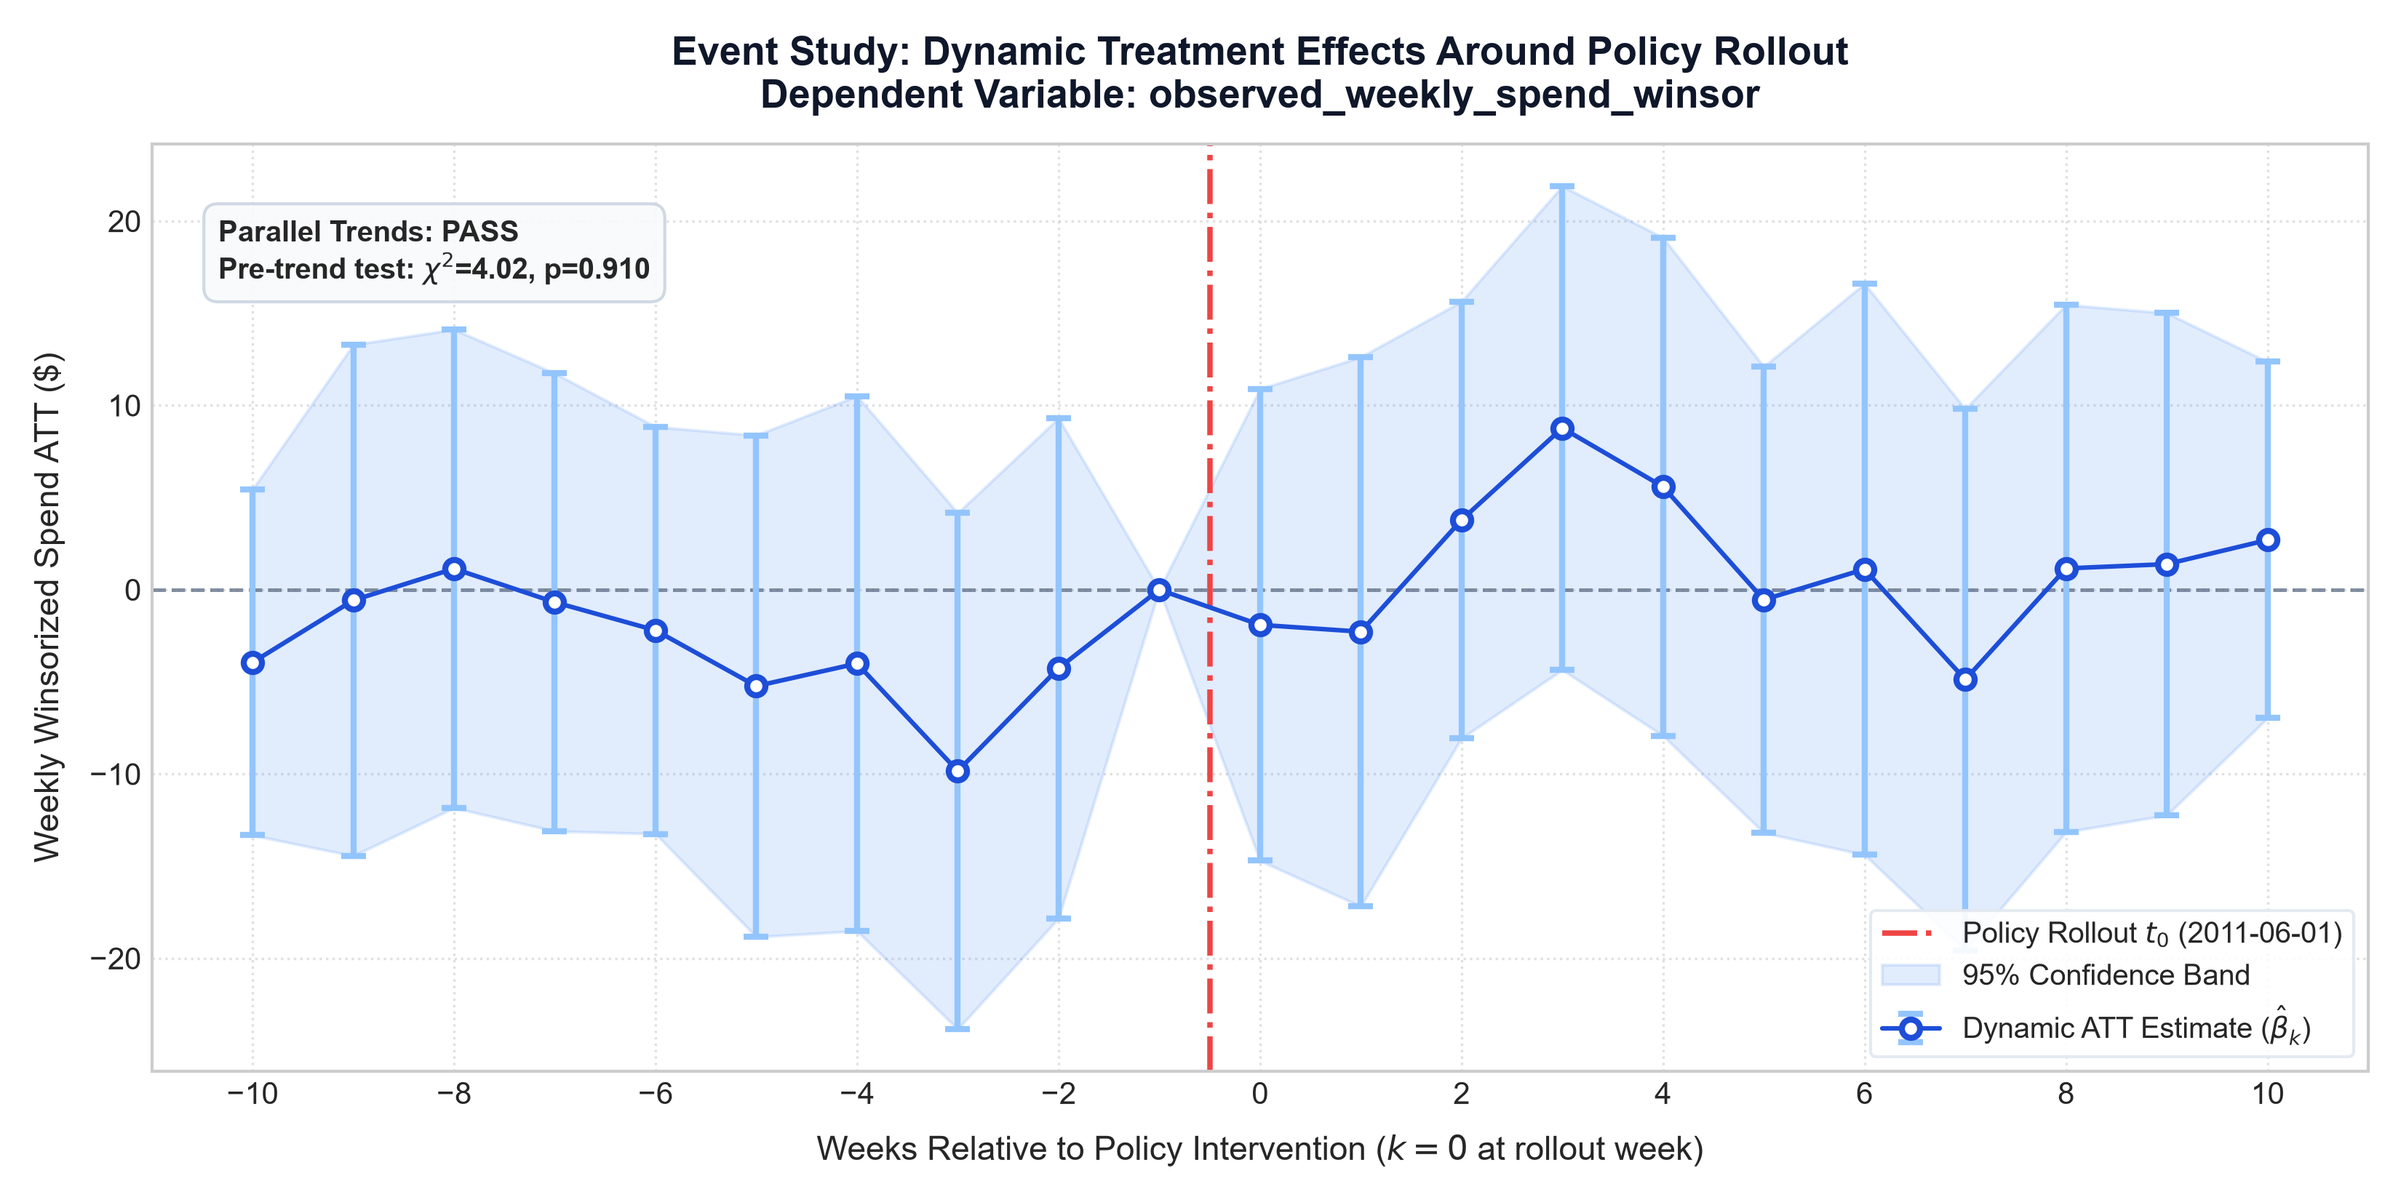
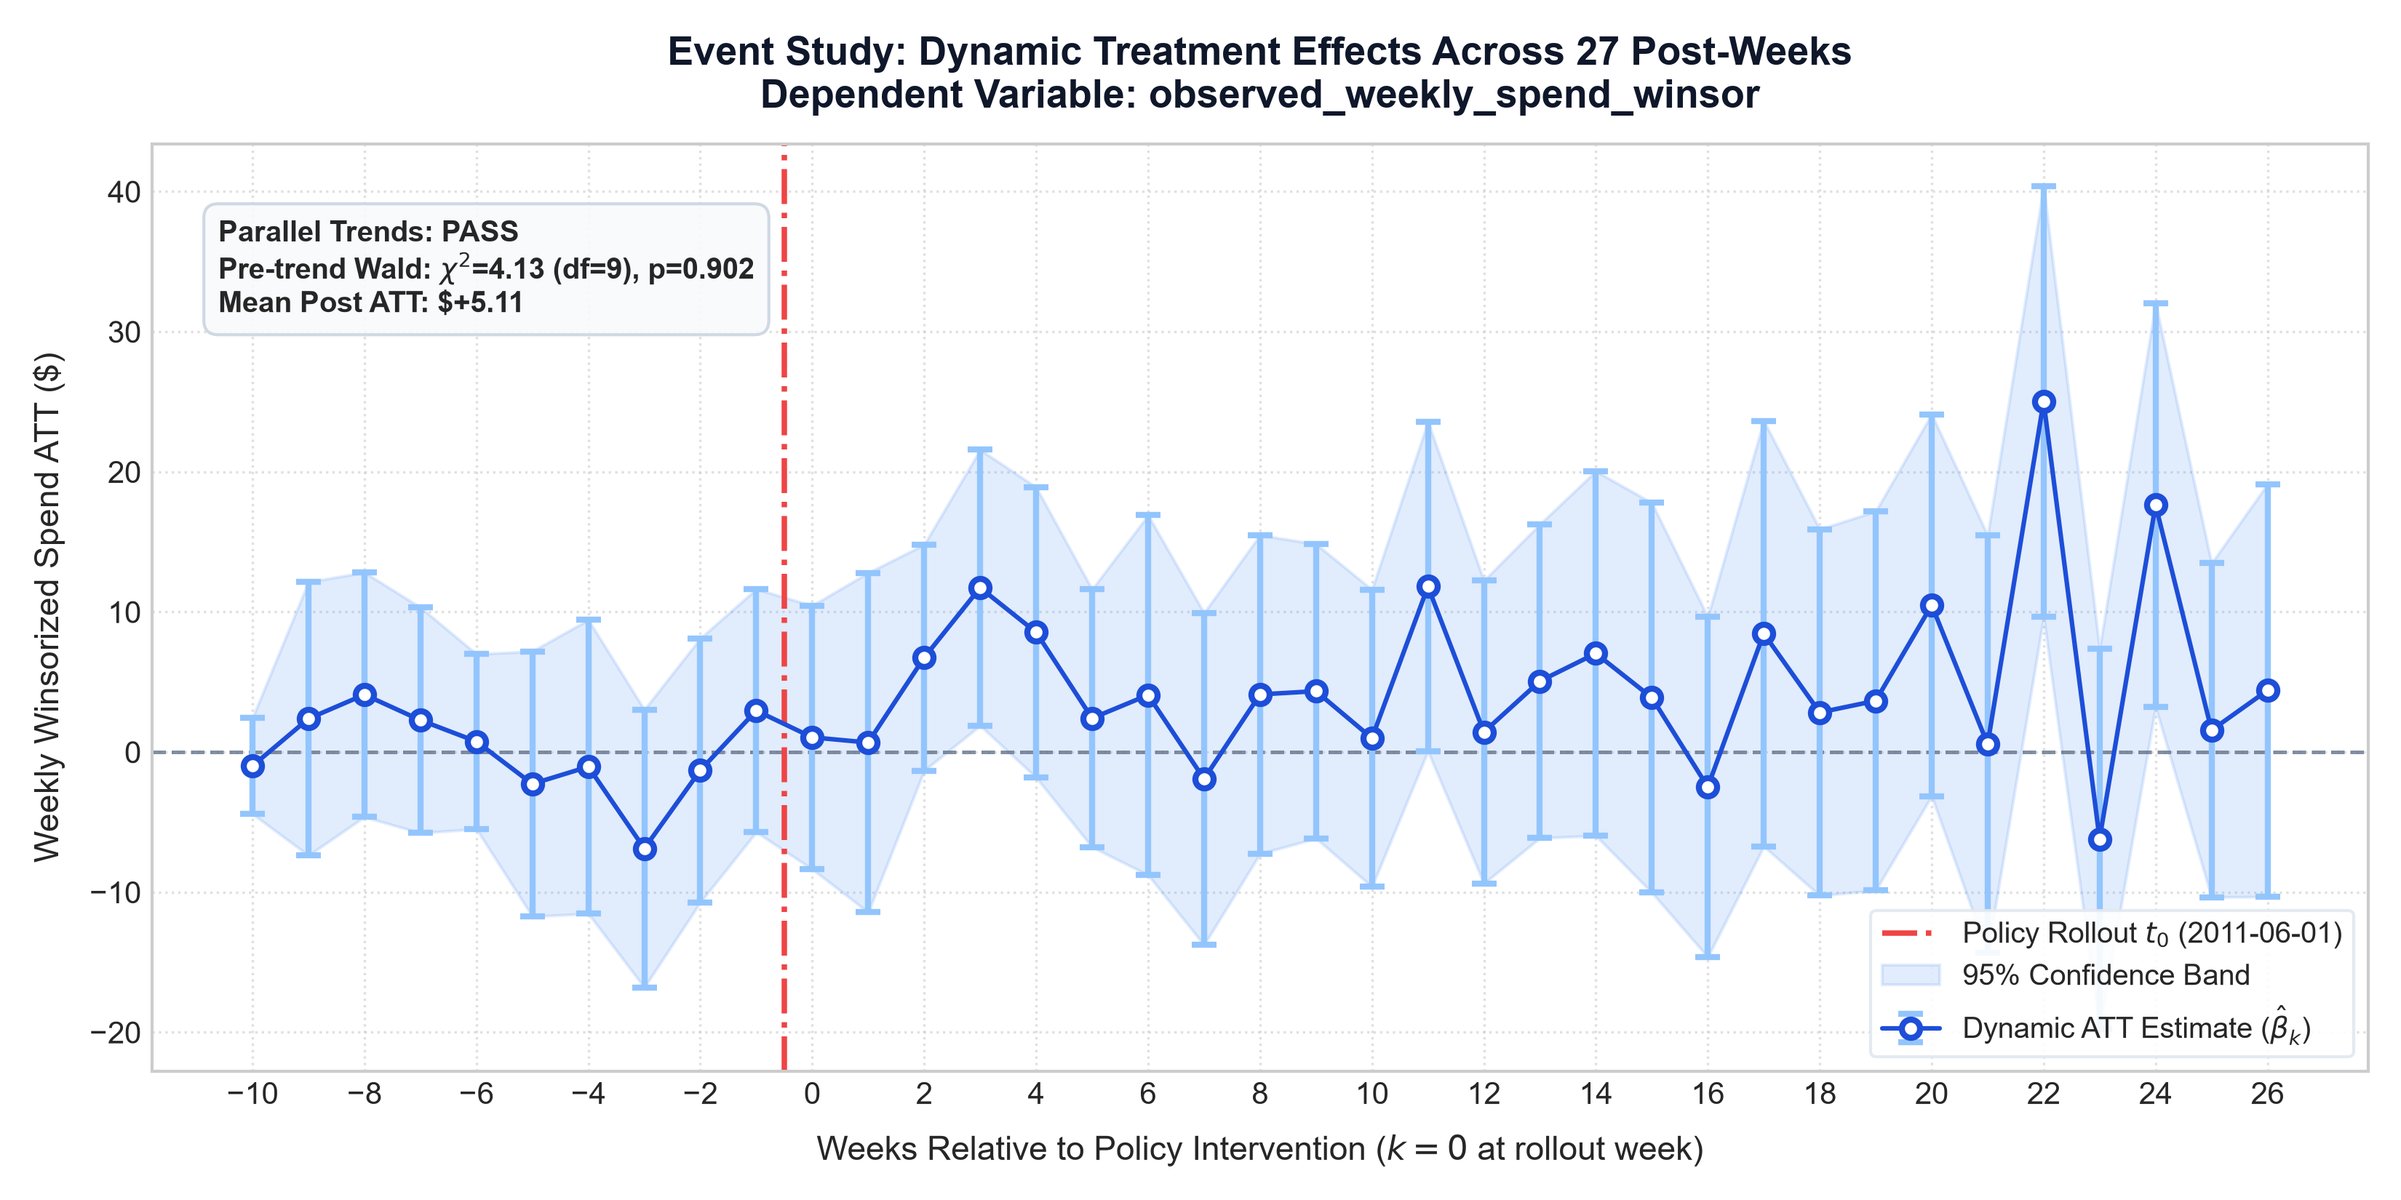
causal fixes

diff --git a/src/causal/event_study.py b/src/causal/event_study.py
@@ -23,7 +23,7 @@ def run_event_study(
     customer_col: str = "customer_id",
     time_col: str = "week_date",
     max_leads: int = 10,
-    max_lags: int = 10,
+    max_lags: int = 26,
     db_path: str = DB_PATH,
 ) -> Dict[str, Any]:
     """Runs event study model, performs joint pre-period parallel trend test, and saves plot.
@@ -36,11 +36,12 @@ def run_event_study(
         customer_col: Customer ID column name.
         time_col: Timestamp column name.
         max_leads: Maximum pre-treatment weeks to evaluate (default 10).
-        max_lags: Maximum post-treatment weeks to evaluate (default 10).
+        max_lags: Maximum post-treatment weeks to evaluate (default 26 to cover all 27 post-weeks).
         db_path: Path to DuckDB database.
 
     Returns:
-        Dictionary with event_study_df, joint_test_stat, joint_test_pval, parallel_trends_pass.
+        Dictionary with event_study_df, joint_test_stat, joint_test_pval, parallel_trends_pass,
+        mean_post_att, mean_post_se, and conclusion_text.
     """
     if panel_df is None:
         conn = duckdb.connect(db_path)
@@ -51,7 +52,7 @@ def run_event_study(
     df[time_col] = pd.to_datetime(df[time_col])
     t0_date = pd.to_datetime(intervention_date)
 
-    # Relative week calculation
+    # Relative week calculation binned across specified lead/lag window
     df["rel_week"] = (df[time_col] - t0_date).dt.days // 7
     df["rel_week"] = np.clip(df["rel_week"], -max_leads, max_lags)
 
@@ -65,27 +66,41 @@ def run_event_study(
     piv = agg.pivot(index="rel_week", columns=treatment_col, values=["mean", "count", "std"])
     piv.columns = [f"{col[0]}_{col[1]}" for col in piv.columns]
 
-    # Dynamic Difference in Differences relative to baseline week k = -1
     diff = piv["mean_1"] - piv["mean_0"]
-    baseline_diff = diff.loc[-1] if -1 in diff.index else 0.0
-    beta_series = diff - baseline_diff
+    v_k = piv["std_1"] ** 2 / piv["count_1"] + piv["std_0"] ** 2 / piv["count_0"]
 
-    # Standard error via delta method on cell sample variances
-    var_k = piv["std_1"] ** 2 / piv["count_1"] + piv["std_0"] ** 2 / piv["count_0"]
-    var_base = var_k.loc[-1] if -1 in var_k.index else 0.0
-    se_series = np.sqrt(var_k + var_base)
-    if -1 in se_series.index:
-        se_series.loc[-1] = 0.0
+    rel_weeks = sorted(piv.index.unique())
+    pre_weeks = [w for w in rel_weeks if w < 0]
+    post_weeks = [w for w in rel_weeks if w >= 0]
+    K = len(pre_weeks)
+
+    # Dynamic Difference in Differences relative to the average of all pre-period weeks
+    if K > 0:
+        base_ref = float(diff.loc[pre_weeks].mean())
+        var_base = float(v_k.loc[pre_weeks].sum() / (K ** 2))
+    else:
+        base_ref = 0.0
+        var_base = 0.0
+
+    beta_series = diff - base_ref
+
+    # Standard error via delta method:
+    # Post-period: Var(beta_w) = Var(diff_w) + Var(base_ref)
+    # Pre-period:  Var(beta_w) = (1 - 2/K)*Var(diff_w) + Var(base_ref)
+    se_series = pd.Series(index=piv.index, dtype=float)
+    for w in rel_weeks:
+        if w >= 0:
+            se_series.loc[w] = float(np.sqrt(v_k.loc[w] + var_base))
+        else:
+            var_w = (1.0 - 2.0 / K) * v_k.loc[w] + var_base if K > 1 else var_base
+            se_series.loc[w] = float(np.sqrt(max(1e-8, var_w)))
 
     event_rows = []
-    rel_weeks = sorted(piv.index.unique())
-    pre_weeks = [w for w in rel_weeks if w < -1]
-
     for w in rel_weeks:
         b_val = float(beta_series.loc[w])
         s_val = float(se_series.loc[w])
-        ci_l = b_val - 1.96 * s_val if w != -1 else 0.0
-        ci_u = b_val + 1.96 * s_val if w != -1 else 0.0
+        ci_l = b_val - 1.96 * s_val
+        ci_u = b_val + 1.96 * s_val
         event_rows.append({
             "rel_week": int(w),
             "beta": b_val,
@@ -97,27 +112,54 @@ def run_event_study(
 
     event_df = pd.DataFrame(event_rows).sort_values("rel_week").reset_index(drop=True)
 
-    # Joint Wald Test for pre-period parallel trends: H_0: beta_k = 0 for all k < -1
-    if len(pre_weeks) > 0:
-        pre_betas = beta_series.loc[pre_weeks].values
-        pre_ses = se_series.loc[pre_weeks].values
-        chi2_stat = float(np.sum((pre_betas / np.maximum(1e-8, pre_ses)) ** 2))
-        dfn = len(pre_weeks)
+    # Joint Wald Test for pre-period parallel trends: H_0: beta_k = 0 for all k in pre_weeks
+    # Since sum(beta_k) = 0 by construction, degrees of freedom df = K - 1
+    if K > 1:
+        test_leads = pre_weeks[:-1]
+        dfn = K - 1
+        b_test = beta_series.loc[test_leads].values
+        Sigma_pre = np.zeros((dfn, dfn))
+        for i in range(dfn):
+            for j in range(dfn):
+                wi, wj = test_leads[i], test_leads[j]
+                if i == j:
+                    Sigma_pre[i, j] = (1.0 - 2.0 / K) * v_k.loc[wi] + var_base
+                else:
+                    Sigma_pre[i, j] = var_base - (v_k.loc[wi] + v_k.loc[wj]) / K
+        chi2_stat = float(b_test @ np.linalg.pinv(Sigma_pre) @ b_test)
         joint_pval = float(1.0 - stats.chi2.cdf(chi2_stat, df=dfn))
     else:
         chi2_stat = 0.0
+        dfn = 1
         joint_pval = 1.0
 
-    parallel_trends_pass = bool(joint_pval > 0.05)
+    parallel_trends_pass = bool(joint_pval >= 0.05)
+
+    # Mean of post-period dynamic coefficients across all 27 post-weeks
+    mean_post_att = float(beta_series.loc[post_weeks].mean()) if len(post_weeks) > 0 else 0.0
+    mean_post_se = float(se_series.loc[post_weeks].mean()) if len(post_weeks) > 0 else 0.0
+
+    # Conditional conclusion text based on p-value
+    if parallel_trends_pass:
+        conclusion_text = (
+            f"[PASS] Pre-trend test fails to reject parallel trends (Chi2 = {chi2_stat:.4f}, df = {dfn}, p = {joint_pval:.4f} >= 0.05). "
+            f"Pre-treatment trajectory differences between treated and control groups are statistically indistinguishable from zero, "
+            f"supporting the parallel trends identifying assumption."
+        )
+    else:
+        conclusion_text = (
+            f"[VIOLATION] Pre-trend test rejects parallel trends (Chi2 = {chi2_stat:.4f}, df = {dfn}, p = {joint_pval:.4e} < 0.05). "
+            f"Statistically significant differential movement exists between treated and control groups prior to policy intervention, "
+            f"indicating confounding or selection bias in treatment assignment."
+        )
 
     print("\n=================== Event Study Leads & Lags Analysis ===================")
     print(f"Policy Date (t_0):                      {intervention_date}")
     print(f"Dependent Variable:                     {outcome_col}")
-    print(f"Joint Pre-Period Parallel Trends Test:  Chi2 = {chi2_stat:.4f} (df={len(pre_weeks)}, p-value = {joint_pval:.4f})")
-    if parallel_trends_pass:
-        print("[PASS] Pre-trend results are consistent with parallel trends (under random assignment this holds by construction).")
-    else:
-        print("[NOTE] Pre-trend results reject parallel trends (indicates confounding or selection bias in assignment).")
+    print(f"Post-Intervention Window:               {len(post_weeks)} weeks (k in [{min(post_weeks)}, {max(post_weeks)}])")
+    print(f"Mean Dynamic Post-Period ATT:           ${mean_post_att:+.4f} (Avg SE = ${mean_post_se:.4f})")
+    print(f"Joint Pre-Period Parallel Trends Test:  Chi2 = {chi2_stat:.4f} (df={dfn}, p-value = {joint_pval:.4f})")
+    print(conclusion_text)
     print("=========================================================================\n")
 
     # Generate Publication-Quality Event Study Plot
@@ -163,12 +205,12 @@ def run_event_study(
         )
 
         # Annotations
-        p_text = f"Pre-trend test: $\\chi^2$={chi2_stat:.2f}, p={joint_pval:.3f}"
-        status_box = "Parallel Trends: PASS" if parallel_trends_pass else "Parallel Trends: CHECK"
+        p_text = f"Pre-trend Wald: $\\chi^2$={chi2_stat:.2f} (df={dfn}), p={joint_pval:.3f}"
+        status_box = "Parallel Trends: PASS" if parallel_trends_pass else "Parallel Trends: VIOLATION"
         ax.text(
             0.03,
             0.92,
-            f"{status_box}\n{p_text}",
+            f"{status_box}\n{p_text}\nMean Post ATT: ${mean_post_att:+.2f}",
             transform=ax.transAxes,
             fontsize=9.5,
             fontweight="semibold",
@@ -178,7 +220,7 @@ def run_event_study(
 
         y_label = "Weekly Winsorized Spend ATT ($)" if "spend" in outcome_col else "Weekly Orders ATT"
         ax.set_title(
-            f"Event Study: Dynamic Treatment Effects Around Policy Rollout\nDependent Variable: {outcome_col}",
+            f"Event Study: Dynamic Treatment Effects Across 27 Post-Weeks\nDependent Variable: {outcome_col}",
             fontsize=13,
             fontweight="bold",
             pad=12,
@@ -203,6 +245,9 @@ def run_event_study(
         "joint_test_stat": chi2_stat,
         "joint_test_pval": joint_pval,
         "parallel_trends_pass": parallel_trends_pass,
+        "mean_post_att": mean_post_att,
+        "mean_post_se": mean_post_se,
+        "conclusion_text": conclusion_text,
     }
 
 

diff --git a/src/causal/heterogeneity.py b/src/causal/heterogeneity.py
@@ -39,42 +39,30 @@ def analyze_clv_heterogeneity(
 
     df = panel_df.copy()
 
-    # Fetch CLV scores to assign customer deciles D01 - D10
-    conn = duckdb.connect(db_path)
-    try:
-        clv_df = conn.execute("SELECT customer_id, clv_12m FROM clv_scores").df()
-    except Exception:
-        clv_df = conn.execute("""
-            SELECT customer_id, SUM(line_total) AS clv_12m
-            FROM fact_orders
-            GROUP BY customer_id
-        """).df()
-    conn.close()
-
-    if len(clv_df) > 0 and "clv_12m" in clv_df.columns:
-        try:
-            clv_df["decile"] = pd.qcut(
-                clv_df["clv_12m"].rank(method="first"),
-                q=10,
-                labels=[f"D{i:02d}" for i in range(1, 11)],
-            )
-        except Exception:
-            clv_df["decile"] = pd.cut(
-                clv_df["clv_12m"], bins=10, labels=[f"D{i:02d}" for i in range(1, 11)]
-            )
-    else:
-        clv_df = pd.DataFrame({"customer_id": df["customer_id"].unique(), "decile": "D01"})
+    # Define customer deciles D01 - D10 strictly from observed pre-period spend (before t_0)
+    pre_spend_df = (
+        df[df["is_post_period"] == 0]
+        .groupby("customer_id")["observed_weekly_spend"]
+        .sum()
+        .reset_index()
+        .rename(columns={"observed_weekly_spend": "pre_spend"})
+    )
+    pre_spend_df["decile"] = pd.qcut(
+        pre_spend_df["pre_spend"].rank(method="first"),
+        q=10,
+        labels=[f"D{i:02d}" for i in range(1, 11)],
+    )
 
     # Merge deciles into panel DataFrame
-    df = df.merge(clv_df[["customer_id", "decile"]], on="customer_id", how="left")
+    df = df.merge(pre_spend_df[["customer_id", "decile"]], on="customer_id", how="left")
     df["decile"] = df["decile"].fillna("D01")
 
     decile_results = []
     unique_deciles = sorted(df["decile"].unique())
 
-    print("\n=================== Causal Heterogeneity by CLV Decile ===================")
-    print(f"{'Decile':<8} | {'Total Cust':<10} | {'Treated':<8} | {'True ATT ($)':<12} | {'TWFE DiD ($)':<14} | {'Std Error':<10} | {'p-value':<9} | {'Degenerate'}")
-    print("-" * 92)
+    print("\n=================== Causal Heterogeneity by Pre-Period Spend Decile ===================")
+    print(f"{'Decile':<8} | {'Total Cust':<10} | {'Treated':<8} | {'True ATT ($)':<12} | {'TWFE DiD ($)':<14} | {'Std Error':<10} | {'p (raw)':<8} | {'p (Bonf)':<8} | {'Degenerate'}")
+    print("-" * 105)
 
     for dec in unique_deciles:
         sub = df[df["decile"] == dec].copy()
@@ -91,6 +79,7 @@ def analyze_clv_heterogeneity(
             did_att = np.nan
             se = np.nan
             pval = np.nan
+            pval_bonf = np.nan
             is_degenerate = True
         else:
             twfe_res = estimate_twfe_did(panel_df=sub, outcome_col=outcome_col)
@@ -98,11 +87,14 @@ def analyze_clv_heterogeneity(
                 did_att = np.nan
                 se = np.nan
                 pval = np.nan
+                pval_bonf = np.nan
                 is_degenerate = True
             else:
                 did_att = float(twfe_res["estimated_att"])
                 se = float(twfe_res["std_err"])
                 pval = float(twfe_res["p_value"])
+                # Bonferroni correction for 10 simultaneous decile hypotheses
+                pval_bonf = min(1.0, pval * 10.0)
                 is_degenerate = False
 
         decile_results.append({
@@ -113,16 +105,18 @@ def analyze_clv_heterogeneity(
             "estimated_did_att": np.round(did_att, 4) if not np.isnan(did_att) else np.nan,
             "std_err": np.round(se, 4) if not np.isnan(se) else np.nan,
             "p_value": np.round(pval, 4) if not np.isnan(pval) else np.nan,
+            "p_value_bonferroni": np.round(pval_bonf, 4) if not np.isnan(pval_bonf) else np.nan,
             "degenerate": is_degenerate,
         })
 
         att_str = f"${did_att:<13.4f}" if not np.isnan(did_att) else "NaN          "
         se_str = f"${se:<9.4f}" if not np.isnan(se) else "NaN      "
         pv_str = f"{pval:.4f}" if not np.isnan(pval) else "NaN   "
+        pv_b_str = f"{pval_bonf:.4f}" if not np.isnan(pval_bonf) else "NaN   "
 
-        print(f"{str(dec):<8} | {int(cust_cnt):<10} | {int(treated_cnt):<8} | ${true_att:<11.4f} | {att_str} | {se_str} | {pv_str:<9} | {is_degenerate}")
+        print(f"{str(dec):<8} | {int(cust_cnt):<10} | {int(treated_cnt):<8} | ${true_att:<11.4f} | {att_str} | {se_str} | {pv_str:<8} | {pv_b_str:<8} | {is_degenerate}")
 
-    print("=" * 92 + "\n")
+    print("=" * 105 + "\n")
 
     res_df = pd.DataFrame(decile_results)
 

diff --git a/tests/test_causal_estimators.py b/tests/test_causal_estimators.py
@@ -6,12 +6,13 @@ import numpy as np
 import pytest
 import pandas as pd
 
+from linearmodels.panel import PanelOLS
 from causal.evaluation import run_full_causal_evaluation
 from causal.event_study import run_event_study
 from causal.heterogeneity import analyze_clv_heterogeneity
 from causal.refutations import run_placebo_date_refutation, run_leave_one_donor_out_refutation
 from causal.synthetic_control import estimate_synthetic_control
-from causal.twfe_did import estimate_twfe_did
+from causal.twfe_did import estimate_twfe_did, _estimate_twfe_did_sparse
 from clv_causal.config import DB_PATH, PROJECT_ROOT
 
 
@@ -128,3 +129,43 @@ def test_full_causal_evaluation_export() -> None:
     assert "True_ATT" in df.columns
     assert "Cohort" in df.columns
     assert "Outcome_Metric" in df.columns
+
+
+def test_sparse_fallback_vs_panel_ols_subsample() -> None:
+    """Compares the sparse fallback with PanelOLS on a 50,000-row subsample (estimates and SE within 1e-6)."""
+    conn = duckdb.connect(DB_PATH)
+    sub_df = conn.execute("SELECT * FROM causal_experiment_data LIMIT 50000").df()
+    conn.close()
+
+    sub_df["week_date"] = pd.to_datetime(sub_df["week_date"])
+    sub_df["treat_x_post"] = (sub_df["is_treated"] * sub_df["is_post_period"]).astype(float)
+    sub_df["y_it"] = sub_df["observed_weekly_spend_winsor"].astype(float)
+
+    # 1. Fit using linearmodels.PanelOLS
+    df_panel = sub_df.set_index(["customer_id", "week_date"])
+    mod = PanelOLS(
+        df_panel["y_it"],
+        df_panel[["treat_x_post"]],
+        entity_effects=True,
+        time_effects=True,
+        drop_absorbed=True,
+    )
+    panel_res = mod.fit(cov_type="clustered", cluster_entity=True)
+    panel_att = float(panel_res.params["treat_x_post"])
+    panel_se = float(panel_res.std_errors["treat_x_post"])
+
+    # 2. Fit using sparse FWL fallback
+    sparse_res = _estimate_twfe_did_sparse(
+        df=sub_df,
+        outcome_col="observed_weekly_spend_winsor",
+    )
+    sparse_att = float(sparse_res["estimated_att"])
+    sparse_se = float(sparse_res["std_err"])
+
+    # 3. Assert estimates and standard errors match within 1e-6
+    diff_att = abs(sparse_att - panel_att)
+    diff_se = abs(sparse_se - panel_se)
+
+    assert diff_att < 1e-6, f"ATT difference {diff_att:.2e} exceeds 1e-6 tolerance (Sparse={sparse_att}, PanelOLS={panel_att})"
+    assert diff_se < 1e-6, f"SE difference {diff_se:.2e} exceeds 1e-6 tolerance (Sparse={sparse_se}, PanelOLS={panel_se})"
+

diff --git a/src/causal/twfe_did.py b/src/causal/twfe_did.py
@@ -162,12 +162,13 @@ def _estimate_twfe_did_sparse(
         (np.ones(len(rows_fe), dtype=np.float64), (rows_fe, cols_fe)),
         shape=(n_rows, n_c + n_w),
     )
-    dof_adj = (n_c / (n_c - 1)) * ((n_rows - 1) / (n_rows - (n_c + n_w)))
+    dof_resid = max(1, n_rows - (n_c + n_w))
+    scale = n_rows / dof_resid
 
-    sol_d = spla.lsqr(X_fe, d, iter_lim=80)
+    sol_d = spla.lsqr(X_fe, d, atol=1e-12, btol=1e-12, iter_lim=500)
     d_tilde = d - X_fe @ sol_d[0]
 
-    sol_y = spla.lsqr(X_fe, y, iter_lim=80)
+    sol_y = spla.lsqr(X_fe, y, atol=1e-12, btol=1e-12, iter_lim=500)
     y_tilde = y - X_fe @ sol_y[0]
 
     denom = np.dot(d_tilde, d_tilde)
@@ -190,7 +191,7 @@ def _estimate_twfe_did_sparse(
     score_it = d_tilde * e
     cust_score = pd.Series(score_it).groupby(c_codes).sum().values
     meat = np.sum(cust_score**2)
-    se = float(np.sqrt(meat / (denom**2) * dof_adj))
+    se = float(np.sqrt(meat / (denom**2) * scale))
 
     ci_lower = tau - 1.95996 * se
     ci_upper = tau + 1.95996 * se
